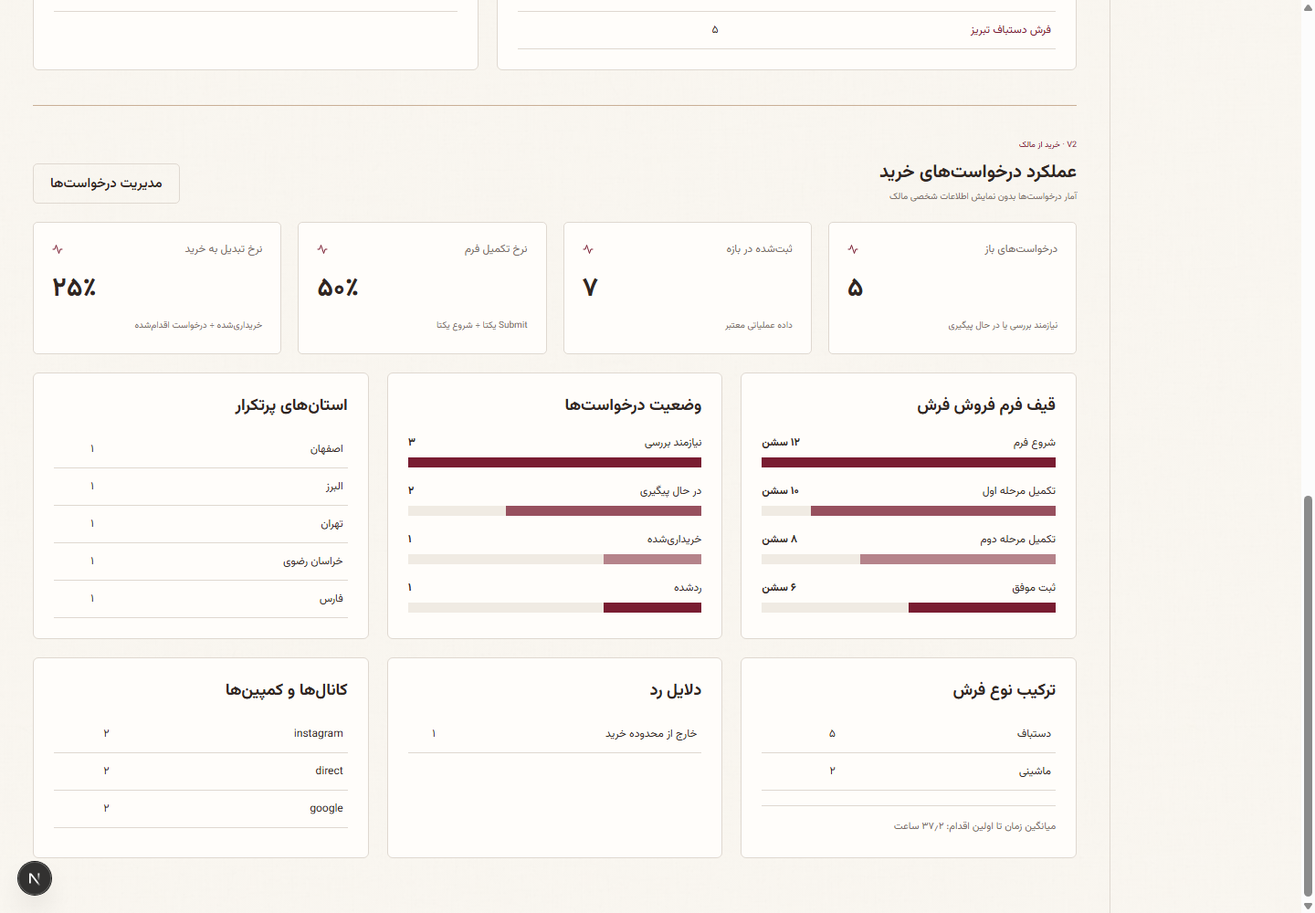
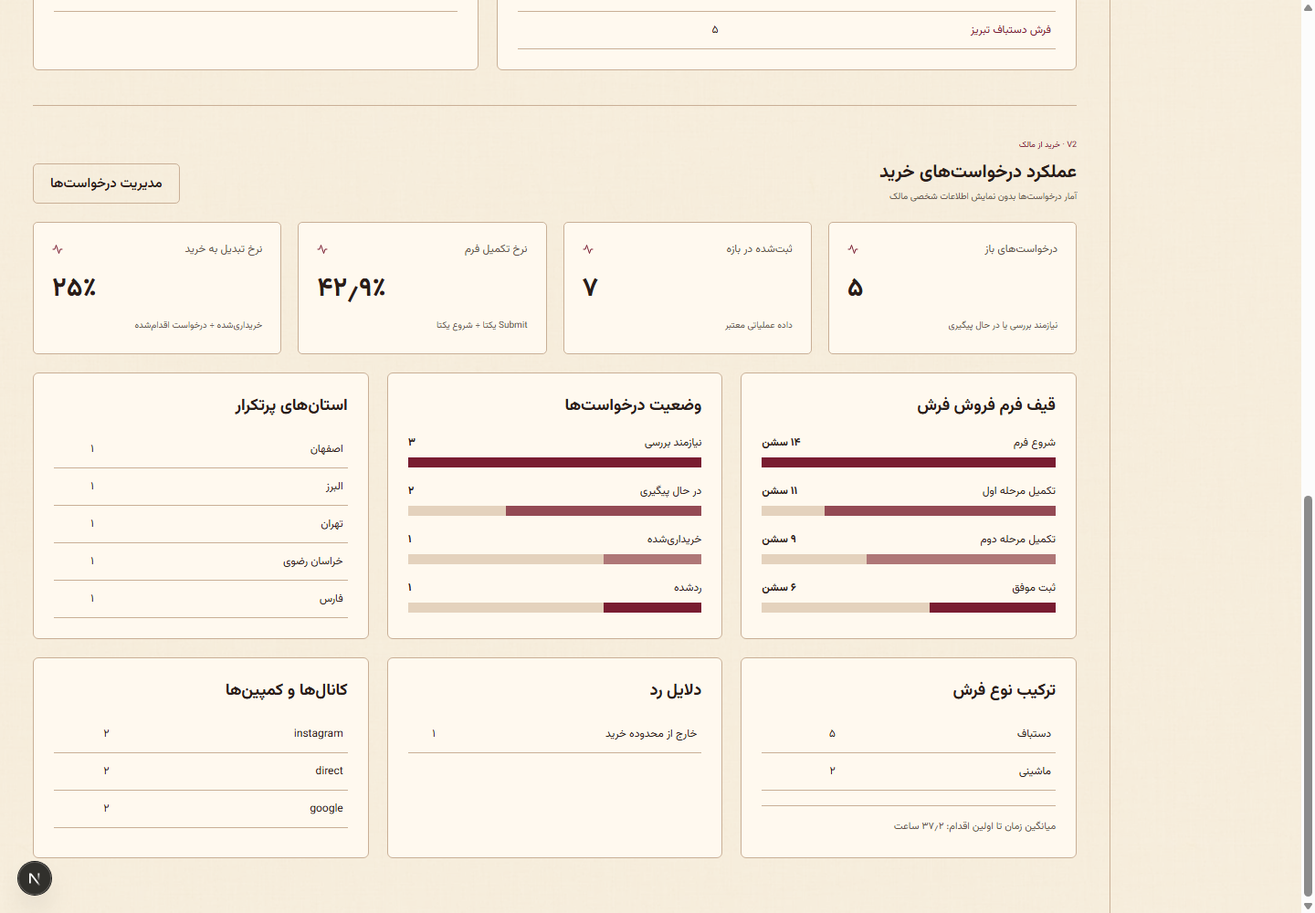
chore: finalize V2 design QA and release metadata

diff --git a/frontend/src/app/globals.css b/frontend/src/app/globals.css
@@ -70,7 +70,7 @@ body{background-color:var(--paper);background-image:linear-gradient(#faf8f4e8,#f
 .summary-note{display:flex;gap:9px;padding:14px;border:1px solid #c9af96;background:#fff8ed99}.summary-note>svg{margin-top:3px;color:var(--wine);flex:none}.summary-note p{color:var(--muted);font-size:9px;line-height:1.95}
 .sell-form{min-width:0;padding:35px 42px 28px}.sell-step-head{padding-bottom:23px;border-bottom:1px solid var(--line)}.sell-step-head small{color:var(--wine);font-size:10px;font-weight:650}.sell-step-head h2{margin-top:4px;font-family:'Noto Naskh Arabic',Vazirmatn,serif;font-size:25px;line-height:1.55;outline:0}.sell-step-head p{margin-top:4px;color:var(--muted);font-size:11px;line-height:1.9}
 .sell-step>fieldset,.sell-upload-head{margin-top:25px}.sell-step legend,.sell-upload-head>span{display:flex;align-items:center;gap:8px;font-size:12px;font-weight:650}.required-mark,.optional-mark{padding:2px 6px;background:#f1e2e1;color:var(--wine);font-size:8px;font-weight:500}.optional-mark{background:#eee8df;color:var(--muted)}
-.sell-type-grid{display:grid;grid-template-columns:1fr 1fr;gap:12px;margin-top:10px}.sell-type-grid label{display:grid;gap:3px;padding:17px 18px;border:1px solid var(--line);cursor:pointer}.sell-type-grid label.selected{border-color:var(--wine);box-shadow:inset 0 0 0 1px var(--wine);background:#791c3105}.sell-type-grid input{position:absolute;opacity:0;pointer-events:none}.sell-type-grid strong{font-size:13px}.sell-type-grid small{color:var(--muted);font-size:9px}.sell-type-grid label.selected strong{color:var(--wine)}
+.sell-type-grid{display:grid;grid-template-columns:1fr 1fr;gap:12px;margin-top:10px}.sell-type-grid label{position:relative;display:grid;gap:3px;padding:17px 18px;border:1px solid var(--line);cursor:pointer}.sell-type-grid label.selected{border-color:var(--wine);box-shadow:inset 0 0 0 1px var(--wine);background:#791c3105}.sell-type-grid input{position:absolute;inset:50% auto auto 50%;width:1px;height:1px;min-height:0;opacity:0;pointer-events:none}.sell-type-grid strong{font-size:13px}.sell-type-grid small{color:var(--muted);font-size:9px}.sell-type-grid label.selected strong{color:var(--wine)}
 .sell-upload{display:grid;justify-items:center;gap:6px;min-height:175px;margin-top:10px;padding:26px;border:1px dashed #b99d85;background:#f7f0e7;cursor:pointer;text-align:center}.sell-upload>svg{font-size:27px;color:var(--wine)}.sell-upload strong{font-size:12px}.sell-upload small{color:var(--muted);font-size:9px}.sell-upload input{position:absolute;width:1px;height:1px;opacity:0;pointer-events:none}
 .sell-photo-list{display:grid;grid-template-columns:repeat(4,1fr);gap:10px;margin-top:12px}.sell-photo-list figure{position:relative;margin:0;aspect-ratio:1;border:1px solid var(--line);background:var(--sand)}.sell-photo-list img{width:100%;height:100%;object-fit:cover}.sell-photo-list button{position:absolute;top:5px;inset-inline-end:5px;display:flex;align-items:center;justify-content:center;width:29px;height:29px;border:0;background:#fffaf2e8;color:var(--wine)}
 .photo-guide{margin-top:18px;padding:17px 18px;border:1px solid #d2bca7;background:#eee0ce}.photo-guide>svg{float:inline-start;margin:1px 0 0 9px;color:var(--wine)}.photo-guide>strong{font-size:10px}.photo-guide ol{display:grid;grid-template-columns:1fr 1fr;gap:8px 18px;margin:12px 0 0;padding:0;list-style:none}.photo-guide li{display:flex;align-items:center;gap:7px;color:var(--muted);font-size:9px}.photo-guide li span{display:flex;align-items:center;justify-content:center;width:19px;height:19px;border:1px solid #b99d85;border-radius:50%;color:var(--wine);font-size:8px}
@@ -98,3 +98,18 @@ body{background-color:var(--paper);background-image:linear-gradient(#faf8f4e8,#f
 .dashboard-heading .eyebrow{color:var(--wine);font-size:9px}.dashboard-tabs{display:grid;grid-template-columns:1fr 1fr;gap:12px;margin-bottom:24px}.dashboard-tab{position:relative;display:flex;align-items:center;gap:12px;min-height:78px;padding:14px 17px;border:1px solid var(--line);background:var(--white);text-align:start}.dashboard-tab.active{border-color:#b9938d;background:#fff9f5}.dashboard-tab.active:after{content:"";position:absolute;bottom:-1px;inset-inline:16px;height:3px;background:var(--wine)}.dashboard-tab-icon{display:flex;align-items:center;justify-content:center;width:37px;height:37px;flex:none;background:var(--sand);color:var(--wine)}.dashboard-tab>span:nth-child(2){display:grid;gap:2px}.dashboard-tab strong{font-size:12px}.dashboard-tab small{color:var(--muted);font-size:9px}.dashboard-tab em{margin-inline-start:auto;padding:3px 7px;background:#f1e2e1;color:var(--wine);font-size:8px;font-style:normal}.dashboard-summary{display:grid;grid-template-columns:repeat(4,1fr);gap:16px;margin-bottom:20px}.dashboard-overview-grid{display:grid;grid-template-columns:repeat(3,1fr);gap:20px}.dashboard-snapshot{display:flex;flex-direction:column}.panel-title-row>div>p{color:var(--muted);font-size:9px}.panel-title-row>svg{color:var(--wine)}.dashboard-panel-link{margin-top:auto;padding-top:17px}.dashboard-filterbar{display:flex;align-items:center;justify-content:space-between;gap:20px;margin-bottom:20px;padding:16px 18px;border:1px solid var(--line);background:var(--sand)}.dashboard-filterbar>div{display:grid;gap:3px}.dashboard-filterbar strong{font-size:11px}.dashboard-filterbar span{color:var(--muted);font-size:9px}.dashboard-filterbar select{width:auto;min-width:155px;background:var(--white)}.sell-dashboard-section{margin-top:38px;padding-top:30px;border-top:1px solid #c9af96}.section-heading{display:flex;justify-content:space-between;align-items:end;gap:20px;margin-bottom:18px}.section-heading h2{margin-top:4px;font-size:20px}.section-heading p{margin-top:3px;color:var(--muted);font-size:10px}.section-heading .eyebrow{color:var(--wine);font-size:9px}.sell-insights-grid{grid-template-columns:repeat(3,1fr)}.dashboard-metric-note{margin-top:16px!important;padding-top:13px;border-top:1px solid var(--line)}
 @media(max-width:1050px){.dashboard-summary{grid-template-columns:repeat(2,1fr)}.dashboard-overview-grid,.sell-insights-grid{grid-template-columns:1fr 1fr}}
 @media(max-width:760px){.dashboard-tabs{grid-template-columns:1fr}.dashboard-tab{min-height:66px}.dashboard-summary,.dashboard-overview-grid,.sell-insights-grid{grid-template-columns:1fr}.dashboard-filterbar,.section-heading{display:grid}.dashboard-filterbar select{width:100%}}
+
+/* Final V2 source-token and sell-layout alignment */
+:root{--paper:#e9dac6;--white:#fff9ef;--sand:#e4d2bd;--line:#c9af96;--muted:#625248;--ink:#291d19;--shadow:0 18px 70px #3b251c2d}
+body{background-image:linear-gradient(#e9dac6b8,#e9dac6b8),url('/images/heritage-texture.webp');background-size:auto,1600px auto;background-attachment:fixed;background-blend-mode:soft-light}
+.public-header{background:#eadbc9f5}
+.marketing-banner{max-width:1380px;margin:26px auto 0;padding:19px;border:1px solid #71182c;border-radius:12px;background:#84243a;box-shadow:0 18px 48px #3a201a26}
+.marketing-banner-inner{min-height:154px;padding:22px 28px;border:1px solid #c6aa90;border-radius:9px;background:#eadbc9f5;grid-template-columns:94px minmax(0,1fr) auto;gap:26px}.marketing-banner-inner:after{display:none}.marketing-banner img{width:94px;height:94px;filter:drop-shadow(0 7px 15px #23090c4f)}.marketing-banner small{margin-bottom:5px;font-size:11px;font-weight:700}.marketing-banner h2{margin:0;color:var(--wine);font-size:clamp(24px,2.3vw,34px);line-height:1.45}.marketing-banner p{margin-top:4px;color:#4f4038;font-size:13px}.marketing-banner a{min-width:190px;min-height:52px;justify-content:center;gap:10px;padding:12px 20px;border-radius:7px;color:#fff8ec;font-weight:750;box-shadow:0 8px 24px #260c1130}
+.sell-page{max-width:1240px;padding:34px 28px 0}
+.sell-hero{grid-template-columns:minmax(0,1fr) 260px;gap:55px;min-height:0;padding:42px 48px;border:1px solid #cdb59c;background:#e4d1b9;box-shadow:0 18px 55px #4b30201a}
+.sell-hero h1{margin:4px 0 10px;color:var(--wine);font-size:39px;line-height:1.5}.sell-hero p{margin:0;max-width:760px;color:#655549;line-height:2}.sell-benefits{gap:16px 24px;margin-top:22px;color:#5b493e;font-size:12px}.sell-hero-mark img{width:220px;height:220px}
+.sell-workspace{grid-template-columns:265px minmax(0,1fr);gap:24px;max-width:none;margin:28px auto 0;border:0;background:transparent;box-shadow:none;align-items:start}
+.sell-summary{position:sticky;top:18px;min-height:455px;padding:24px 21px;border:1px solid #5c4138;background:#3c2925;color:#f8efe6}.sell-summary-brand{padding-bottom:18px;border-bottom-color:#ffffff24}.sell-summary-brand img{width:62px;height:62px}.sell-summary-brand strong{font-size:15px}.sell-summary-brand small{color:#dfcfc2}.sell-summary ol{gap:17px;margin:25px 0}.sell-summary li{min-height:48px;color:#c6b4a8}.sell-summary li:not(:last-child):after{display:none}.sell-summary li>span{width:31px;height:31px;border-color:#ffffff45;background:transparent;color:inherit}.sell-summary li.active,.sell-summary li.done{color:#fff}.sell-summary li.active>span,.sell-summary li.done>span{border-color:#a85a6a}.sell-summary li small{color:inherit}.summary-note{padding:18px 0 0;border:0;border-top:1px solid #ffffff24;background:transparent}.summary-note p{color:#d3c3b8;font-size:10px}
+.sell-form{padding:0;border:1px solid var(--line);background:var(--white);box-shadow:0 12px 45px #4d342514}.sell-step{padding:30px 34px}.sell-step-head{margin-bottom:24px;padding-bottom:20px}.sell-step-head small{color:var(--muted)}.sell-step-head h2{color:var(--wine);font-size:25px}.sell-step-head p{font-size:13px}.sell-step>fieldset,.sell-upload-head{margin-top:0}.sell-step>fieldset{margin-bottom:25px}.sell-type-grid label{padding:17px;border-radius:9px;background:#fbf5eb}.sell-type-grid label.selected{background:#f6e9e7}.sell-upload{min-height:150px;background:#f4eadf}.photo-guide>strong{font-size:13px}.photo-guide li{font-size:11px}.photo-guide li span{width:22px;height:22px}.sell-fields{gap:20px;margin-top:0}.privacy-note,.optional-banner{background:#eee1d1;border-color:#dbc7b2}.optional-banner{margin:0 0 23px}.sell-actions{margin:0;padding:17px 34px;border-top:1px solid var(--line);background:#f0e4d5}.sell-legal{display:block;max-width:760px;margin:22px auto 0;text-align:center;line-height:1.9}.sell-legal svg{display:none}
+@media(max-width:900px){.marketing-banner-inner{grid-template-columns:74px minmax(0,1fr);gap:18px}.marketing-banner img{width:74px;height:74px}.marketing-banner a{grid-column:1/-1;width:100%}}
+@media(max-width:680px){.marketing-banner{margin:16px 12px 0;padding:9px;border-radius:9px}.marketing-banner-inner{display:grid;min-height:0;padding:18px;grid-template-columns:58px minmax(0,1fr);gap:14px}.marketing-banner img{display:block;width:58px;height:58px}.marketing-banner h2{font-size:22px}.marketing-banner p{margin-top:7px;font-size:12px;line-height:1.8}.marketing-banner small{font-size:10px}.marketing-banner a{margin-top:0}.sell-page{width:100%;padding:20px 14px 0;overflow:hidden}.sell-hero{grid-template-columns:minmax(0,1fr);gap:0;padding:28px 22px}.sell-hero h1{font-size:28px}.sell-workspace{display:flex;flex-direction:column;width:100%;margin-top:18px}.sell-summary{position:static;width:100%;min-height:0;background:#3c2925}.sell-form{width:100%;min-width:0}.sell-step{padding:25px 18px}.sell-actions{margin:0;padding:14px 18px}.sell-legal{margin-bottom:35px}}

diff --git a/frontend/src/components/ProductDetailClient.tsx b/frontend/src/components/ProductDetailClient.tsx
@@ -5,6 +5,7 @@ import { useParams, useSearchParams } from "next/navigation";
 import { useEffect, useMemo, useRef, useState } from "react";
 import { FiChevronLeft, FiChevronRight, FiGrid, FiMapPin, FiMaximize2, FiPhone, FiX } from "react-icons/fi";
 import { PublicHeader } from "./PublicHeader";
+import { PublicFooter } from "./PublicFooter";
 import { StatusBadge } from "./StatusBadge";
 import { apiFetch } from "@/lib/api";
 import { track } from "@/lib/analytics";
@@ -110,6 +111,7 @@ export function ProductDetailClient({ initialProduct = null }: { initialProduct?
           </section>
         </div>
       </main>
+      <PublicFooter language={language} store={product.store} />
       <div className="mobile-contact-bar"><div><strong>{number(language, product.price_toman)}</strong><small>{t(language, "toman")}</small></div><button className="button button-primary" onClick={showContact}><FiPhone />{t(language, "contact")}</button></div>
       {contactOpen && <Modal onClose={() => setContactOpen(false)} title={t(language, "contact")}><h3>{language === "fa" ? product.store.name_fa : product.store.name_en}</h3><p>{product.title}</p><bdi className="contact-phone">{product.store.mobile_number}</bdi><a className="button button-primary block" href={`tel:${product.store.mobile_number}`} onClick={() => track("phone_call_clicked", language, { product_public_id: product.public_id })}><FiPhone />{t(language, "call")}</a><div className="contact-location"><FiMapPin /><div><strong>{language === "fa" ? product.store.city_fa : product.store.city_en}</strong>{(language === "fa" ? product.store.address_fa : product.store.address_en) && <p>{language === "fa" ? product.store.address_fa : product.store.address_en}</p>}</div></div></Modal>}
       {zoomOpen && <Modal wide onClose={() => setZoomOpen(false)} title={product.title}><div className="zoom-image">{image && <img src={image.url} alt={product.title} />}</div></Modal>}

diff --git a/frontend/src/components/admin/LoginClient.tsx b/frontend/src/components/admin/LoginClient.tsx
@@ -46,10 +46,10 @@ export function LoginClient() {
 
   return (
     <div className="admin-login" dir="rtl">
-      <header><Link className="brand" href="/Market">بازار فرش ایران</Link><span>پنل فروشنده</span></header>
+      <header><Link className="brand admin-brand" href="/Market"><img src="/images/brand-mark.png" alt="" />فرش شبستری</Link><span>پنل مدیریت</span></header>
       <main>
-        <p className="eyebrow">مدیریت فروشگاه فرش ایران</p>
-        <h1>به پنل فروشنده وارد شوید</h1>
+        <p className="eyebrow">مدیریت فروشگاه فرش شبستری</p>
+        <h1>به پنل مدیریت وارد شوید</h1>
         <p>محصولات، تصاویر و موجودی فروشگاه را مدیریت کنید.</p>
         <form onSubmit={submit}>
           <label>شماره موبایل<input dir="rtl" inputMode="tel" autoComplete="username" placeholder="شماره موبایل خود را وارد کنید" required value={mobile} onChange={(e) => setMobile(e.target.value)} /></label>

diff --git a/frontend/src/app/Market/[publicId]/page.tsx b/frontend/src/app/Market/[publicId]/page.tsx
@@ -17,9 +17,9 @@ export async function generateMetadata({ params, searchParams }: { params: Promi
   const [{ publicId }, search] = await Promise.all([params, searchParams]);
   const language = search.lang === "en" ? "en" : "fa";
   const product = await getProduct(publicId, language);
-  if (!product) return { title: language === "fa" ? "فرش | بازار فرش ایران" : "Carpet | Iran Carpet Market" };
+  if (!product) return { title: language === "fa" ? "فرش | فرش شبستری" : "Carpet | Shabestari Carpet" };
   return {
-    title: `${product.title} | ${language === "fa" ? "بازار فرش ایران" : "Iran Carpet Market"}`,
+    title: `${product.title} | ${language === "fa" ? "فرش شبستری" : "Shabestari Carpet"}`,
     description: product.description || `${product.city.label} · ${product.length_cm} × ${product.width_cm} cm`,
     openGraph: product.images[0] ? { images: [product.images[0].url] } : undefined,
   };

diff --git a/frontend/src/app/layout.tsx b/frontend/src/app/layout.tsx
@@ -1,9 +1,14 @@
-import type { Metadata } from "next";
+import type { Metadata, Viewport } from "next";
 import "./globals.css";
 
 export const metadata: Metadata = {
   title: { default: "فرش شبستری", template: "%s | فرش شبستری" },
-  description: "کشف و مقایسه فرشهای اصیل ایرانی پیش از مراجعه حضوری"
+  description: "کشف و مقایسه فرشهای اصیل ایرانی و ثبت درخواست فروش مستقیم فرش به کارشناسان فرش شبستری"
+};
+
+export const viewport: Viewport = {
+  width: "device-width",
+  initialScale: 1,
 };
 
 export default function RootLayout({ children }: Readonly<{ children: React.ReactNode }>) {

diff --git a/frontend/src/components/SellFlowClient.tsx b/frontend/src/components/SellFlowClient.tsx
@@ -38,9 +38,12 @@ export function SellFlowClient({ references, store }: { references: References; 
   const workspace = useRef<HTMLElement>(null);
   const heading = useRef<HTMLHeadingElement>(null);
   const started = useRef(false);
+  const previousStep = useRef(step);
 
   useEffect(() => { if (!started.current) { started.current = true; track("sell_flow_started", language, attribution(params)); } }, [language, params]);
   useEffect(() => {
+    if (previousStep.current === step) return;
+    previousStep.current = step;
     if (!workspace.current || !heading.current) return;
     const frame = requestAnimationFrame(() => {
       heading.current?.focus({ preventScroll: true });

diff --git a/frontend/src/lib/i18n.ts b/frontend/src/lib/i18n.ts
@@ -2,7 +2,7 @@ import type { InventoryStatus, Language, RugType } from "./types";
 
 const dictionary = {
   fa: {
-    brand: "بازار فرش ایران",
+    brand: "فرش شبستری",
     find: "فرش مناسب خود را پیدا کنید",
     search: "جستجو بر اساس طرح، رنگ، شهر بافت، اندازه و...",
     filters: "فیلترها",
@@ -41,7 +41,7 @@ const dictionary = {
     used: "دستدوم"
   },
   en: {
-    brand: "Iran Carpet Market",
+    brand: "Shabestari Carpet",
     find: "Find a carpet worth seeing in person",
     search: "Search by design, colour, origin, dimensions…",
     filters: "Filters",

diff --git a/README.md b/README.md
@@ -1,13 +1,13 @@
-# بازار فرش ایران
+# فرش شبستری
 
-نسخه V1 بازار فرش با ویترین دوزبانه و پنل فروشنده فارسی. فرانت با Next.js، React و TypeScript و بکاند با Django و Django REST Framework پیادهسازی شده است.
+نسخه V2 بازار فرش شبستری با ویترین دوزبانه، فلو فروش مستقیم فرش و پنل مدیریت فارسی. فرانت با Next.js، React و TypeScript و بکاند با Django و Django REST Framework پیادهسازی شده است.
 
-نسخه پایدار فعلی: `1.0.0` با Git tag برابر `v1.0.0`. روش مشاهده، بازیابی و نگهداری نسخه در `docs/versioning.md` مستند شده است.
+نسخه پایدار فعلی: `2.0.0` با Git tag برابر `v2.0.0`. نسخه کامل V1 همچنان با tag ثابت `v1.0.0` قابل بازیابی است؛ روش آن در `docs/versioning.md` مستند شده است.
 
 ## ساختار
 
-- `frontend/`: رابط عمومی `/Market` و پنل `/Admin`
-- `backend/`: API، احراز هویت، کاتالوگ، تصاویر و تحلیل رفتار
+- `frontend/`: رابط عمومی `/Market`، فلو `/Market/sell` و پنل `/Admin`
+- `backend/`: API، احراز هویت، کاتالوگ، درخواستهای خرید، تصاویر و تحلیل رفتار
 - `docs/database-schema.md`: ERD، constraints، indexها و سیاست نگهداری دیتابیس
 - `docs/versioning.md`: سیاست نسخهبندی و دستورهای امن بازگشت به V1
 - `design-qa.md`: گزارش نهایی تطبیق بصری با فایل طراحی
@@ -46,12 +46,7 @@ npm run dev
 - پنل مدیریت: `http://127.0.0.1:3000/Admin`
 - API: `http://127.0.0.1:8000/api/v1/`
 
-حساب Demo محلی:
-
-- موبایل: `09120000000`
-- رمز: `Demo1234!`
-
-برای محیط واقعی حتماً `DJANGO_SECRET_KEY` و اطلاعات مدیر Demo را تغییر دهید و گزینههای Secure cookie را فعال کنید.
+حساب مدیریتی را با دستور `python manage.py createsuperuser` یا فرآیند امن محیط مقصد بسازید. رمز یا حساب نمونه در رابط و مستندات نگهداری نمیشود. برای محیط واقعی حتماً `DJANGO_SECRET_KEY` و گزینههای Secure cookie را تنظیم کنید.
 
 ## بررسی کیفیت
 

diff --git a/design-qa.md b/design-qa.md
@@ -1,4 +1,25 @@
-# Design QA — full frontend parity
+# Design QA — V2 release parity
+
+## V2 final verification
+
+- Source visual truth: `PRD&DESIGN/V2/Design-v2.html`.
+- Evidence: `frontend/qa/v2-design-parity/comparison/`; every canvas shows the source on the left and the implementation on the right.
+- Viewports: desktop `1440 × 1000` and mobile `390 × 844`, DPR `1`.
+- Coverage: 15 paired captures — Market, product detail, sell steps 1/2/3, success, admin login, both dashboard tabs, request list/detail, product list/form, Market mobile, and sell mobile.
+- Browser result: 15 source captures, 15 implementation captures, 15 comparisons, and no console/runtime errors.
+- Functional browser result: authenticated request list/detail/filter/status/history and both dashboard tabs passed against the local Django/MySQL stack.
+- Accepted content-only difference: the implementation displays current local database images and metrics rather than the prototype fixtures; layout, crop, hierarchy, state styling, and responsive behavior were evaluated independently.
+- Intentional product override: the prototype Demo-credential box remains absent from the implementation as explicitly requested.
+
+### V2 resolved findings
+
+- `[P1]` The initial sell page jumped past its hero, the workspace used a boxed legacy layout, and mobile inherited desktop grid sizing. Fixed initial focus/scroll behavior, aligned the 265px dark step rail and separate white form, and restored a single-column mobile layout.
+- `[P1]` The Market sell banner lacked the prototype's wine outer frame and compact inner panel. Tokens, spacing, logo scale, typography, CTA, and mobile composition now match the final design cascade.
+- `[P1]` Public/admin brand copy and root metadata still contained V1 naming. Updated to Shabestari Carpet / فرش شبستری and added an explicit device viewport.
+- `[P2]` Product detail did not include the V2 public footer. Added the store-aware bilingual footer.
+- Final re-capture found no remaining actionable `P0`, `P1`, or `P2` issue. Mobile diagnostics report no overflowing element, and browser errors are empty.
+
+## Archived V1 comparison
 
 ## Comparison setup
 

diff --git a/CHANGELOG.md b/CHANGELOG.md
@@ -2,6 +2,15 @@
 
 تمام تغییرات مهم محصول در این فایل ثبت میشوند. نسخهها از Semantic Versioning پیروی میکنند.
 
+## [2.0.0] - 2026-09-09
+
+- فلو عمومی سهمرحلهای فروش فرش در `/Market/sell` با ثبت ۱ تا ۴ تصویر، اطلاعات تماس، مشخصات اختیاری و صفحه موفقیت.
+- مدیریت درخواستهای خرید در `/Admin/requests` شامل جستجو، فیلتر، جزئیات، گالری، یادداشت، تاریخچه و تغییر آزادانه وضعیت.
+- داشبورد و Analytics اختصاصی قیف فروش با رعایت allowlist داده و جلوگیری از ثبت اطلاعات شخصی.
+- شناسه یکتای `SELL-XXXXXX`، اعتبارسنجی امن تصویر، نرمالسازی موبایل و پشتیبانی کامل MySQL.
+- همگامسازی برند، هدر، فوتر، بنر فروش و رابطهای عمومی/مدیریتی با طراحی V2 و responsive موبایل.
+- مجموعه تست Django، TypeScript، ESLint، production build و Visual QA پانزدهحالته.
+
 ## [1.0.0] - 2026-09-04
 
 اولین نسخه پایدار Carpet Market:
@@ -18,3 +27,4 @@
 - تطبیق کامل رابط با فایل طراحی و شواهد Visual QA.
 
 [1.0.0]: https://github.com/erfanshafieeee/Carpet-Market/releases/tag/v1.0.0
+[2.0.0]: https://github.com/erfanshafieeee/Carpet-Market/releases/tag/v2.0.0

diff --git a/docs/versioning.md b/docs/versioning.md
@@ -1,6 +1,12 @@
 # نسخهبندی و بازیابی
 
-نسخههای پایدار پروژه با Semantic Versioning و Git tag امضاشده/annotated ثبت میشوند. شاخه `main` محل توسعه نسخه بعدی است و شاخه `release/v1` فقط برای اصلاحات ضروری خانواده V1 نگهداری میشود.
+نسخههای پایدار پروژه با Semantic Versioning و Git tag annotated ثبت میشوند. شاخه `main` محل نسخه پایدار جاری است و شاخه `release/v1` فقط برای اصلاحات ضروری خانواده V1 نگهداری میشود.
+
+## نسخه پایدار 2.0.0
+
+- Git tag ثابت: `v2.0.0`
+- نسخه ثبتشده در `VERSION`، `frontend/package.json` و `frontend/package-lock.json`
+- شامل فلو فروش عمومی، مدیریت درخواستهای خرید، Analytics V2 و شواهد Visual QA
 
 ## اجزای Snapshot نسخه 1.0.0
 
